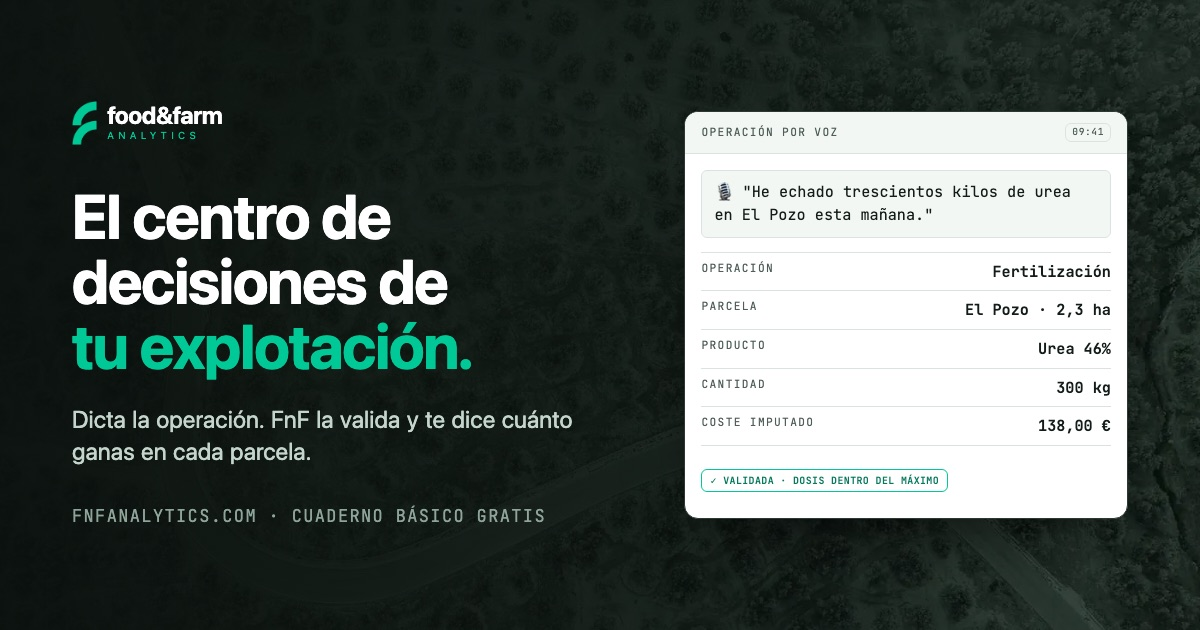
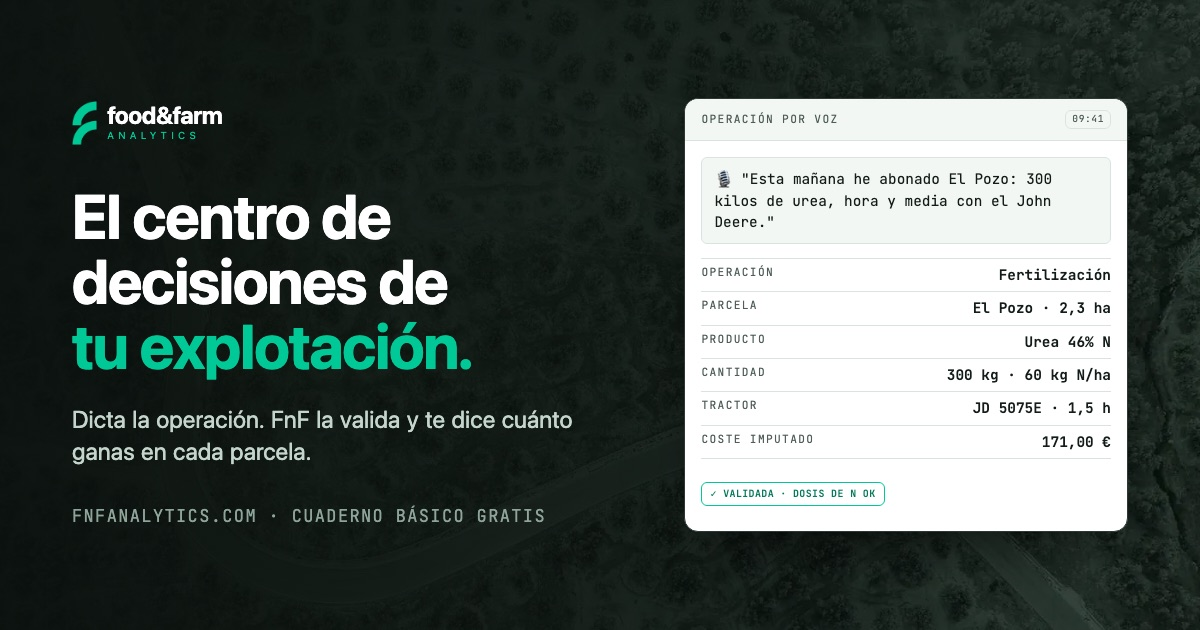
feat(demo): campos del parte real y tractor con matrícula
- La demo del hero enseña lo que pide la ficha R-005: producto con nº de
  registro, dosis y caldo, equipo, tractor y matrícula, horario y viento;
  el sello incluye P.S. y carné ROPO
- El coste imputado suma las horas de tractor (22 €/h de ejemplo)
- Misma operación con tractor en la tarjeta de El sistema, en "Cómo
  funciona" y en la imagen para compartir

Changed region(s): [[0.555, 0.3921, 0.9558, 0.8444], [0.5858, 0.2413, 0.925, 0.3619], [0.555, 0.1508, 0.9558, 0.2111]]

diff --git a/index.html b/index.html
@@ -79,13 +79,7 @@
       <div class="dbar"><span class="label">operación por voz</span><span class="dtag">DEMO · EJEMPLO SIMULADO</span></div>
       <div class="dbody">
         <div class="said" aria-live="polite"><span class="ph">Pulsa el botón y escucha un ejemplo…</span></div>
-        <div class="op">
-          <div class="r"><span class="label">operación</span><span class="data">—</span></div>
-          <div class="r"><span class="label">parcela</span><span class="data">—</span></div>
-          <div class="r"><span class="label">producto</span><span class="data">—</span></div>
-          <div class="r"><span class="label">cantidad</span><span class="data">—</span></div>
-          <div class="r"><span class="label">coste imputado</span><span class="data">—</span></div>
-        </div>
+        <div class="op" id="demo-op"></div>
         <div class="dfoot">
           <button class="mic" type="button" id="mic"><svg viewBox="0 0 24 24" fill="none" stroke="currentColor" stroke-width="2" stroke-linecap="round" aria-hidden="true"><rect x="9" y="3" width="6" height="11" rx="3"/><path d="M5 11a7 7 0 0 0 14 0M12 18v3"/></svg><span>Escuchar ejemplo</span></button>
           <span class="ok" id="demo-ok">✓ VALIDADA</span>
@@ -137,10 +131,11 @@
             <div class="r"><span class="label">operación</span><span class="data">Fertilización</span></div>
             <div class="r"><span class="label">parcela</span><span class="data">El Pozo · 2,3 ha</span></div>
             <div class="r"><span class="label">producto</span><span class="data">Urea 46%</span></div>
-            <div class="r"><span class="label">dosis</span><span class="data">300 kg</span></div>
-            <div class="r"><span class="label">coste imputado</span><span class="data">138,00 €</span></div>
+            <div class="r"><span class="label">dosis</span><span class="data">300 kg · 60 kg N/ha</span></div>
+            <div class="r"><span class="label">tractor</span><span class="data">JD 5075E · 1,5 h</span></div>
+            <div class="r"><span class="label">coste imputado</span><span class="data">171,00 €</span></div>
           </div>
-          <span class="sello">✓ VALIDADA · DOSIS Y PLAZO DE SEGURIDAD OK</span>
+          <span class="sello">✓ VALIDADA · DOSIS DE N OK</span>
         </div>
         <div class="asiento-card">
           <span class="entrada">CONSULTA · <b>MARGEN POR PARCELA</b> · campaña 2026</span>
@@ -254,13 +249,13 @@
         <span class="label">01 · captura</span>
         <h3>Por el canal que ya usas</h3>
         <p>Un audio desde el móvil o por WhatsApp, una foto del albarán o una importación. El operario no aprende nada nuevo.</p>
-        <span class="ej">🎙 "he tratado La Vereda contra el repilo, una cuba de 800 litros de Curenox a 300 gramos"</span>
+        <span class="ej">🎙 "he tratado La Vereda contra el repilo con el atomizador y el John Deere, una cuba de 800 litros de Curenox a 300 gramos"</span>
       </div>
       <div class="step">
         <span class="label">02 · validación</span>
         <h3>El sistema estructura y verifica</h3>
-        <p>Producto, dosis, parcela y plazo de seguridad, verificados automáticamente. Nada queda registrado sin tu confirmación.</p>
-        <span class="ej">✓ oxicloruro de cobre 50% · 300 g/hL (máx. 330) · plazo seg. 14 d · validada</span>
+        <p>Producto, dosis, parcela, equipo y tractor, con su plazo de seguridad. Lo que falta en el parte, te lo pregunta. Nada queda registrado sin tu confirmación.</p>
+        <span class="ej">✓ Curenox 50 Blue (nº 12612) · 300 g/hL (máx. 330) · P.S. 14 d · tractor E-4821-BGK · validada</span>
       </div>
       <div class="step">
         <span class="label">03 · decisión</span>
@@ -452,28 +447,41 @@
 // frase → operación estructurada → validación con dos ejemplos que se alternan.
 (function(){
   var demo = document.getElementById('demo'); if(!demo) return;
+  // Campos de los partes reales (plantillas R-005 de tratamiento y de abonado):
+  // producto con nº de registro, dosis y caldo, equipo, tractor y matrícula, horario.
+  // Coste = producto + horas de tractor (22 €/h, valor de ejemplo).
   var ejemplos = [
-    { dicho: 'He echado trescientos kilos de urea en El Pozo esta mañana.',
-      campos: ['Fertilización', 'El Pozo · 2,3 ha', 'Urea 46%', '300 kg', '138,00 €'],
-      ok: "✓ VALIDADA · DOSIS OK" },
-    { dicho: 'He tratado La Vereda contra el repilo, una cuba de 800 litros de Curenox a 300 gramos.',
-      campos: ['Tratamiento · repilo', 'La Vereda · 0,8 ha', 'Curenox 50 Blue · nº 12612', '2,4 kg en 800 L', '36,84 €'],
-      ok: "✓ VALIDADA · PLAZO SEG. 14 D" }
+    { dicho: 'Esta mañana he abonado El Pozo: 300 kilos de urea con la abonadora, hora y media con el John Deere.',
+      campos: [['operación','Fertilización · abonado'], ['parcela','El Pozo · olivar · 2,3 ha'], ['producto','Urea 46% N'],
+               ['cantidad','300 kg · 60 kg N/ha'], ['equipo','Abonadora centrífuga'], ['tractor','JD 5075E · E-4821-BGK'],
+               ['horario','08:10–09:40 · 1,5 h'], ['coste imputado','171,00 €']],
+      ok: '✓ VALIDADA · DOSIS DE N OK' },
+    { dicho: 'He tratado La Vereda contra el repilo con el atomizador y el John Deere: una cuba de 800 litros de Curenox a 300 gramos, de ocho a diez y sin viento.',
+      campos: [['operación','Tratamiento foliar · repilo'], ['parcela','La Vereda · olivar · 0,8 ha'], ['producto','Curenox 50 Blue · nº 12612'],
+               ['dosis · caldo','300 g/hL · cuba de 800 L'], ['cantidad','2,4 kg'], ['equipo','Atomizador arrastrado'],
+               ['tractor','JD 5075E · E-4821-BGK'], ['horario','08:00–10:00 · sin viento'], ['coste imputado','80,84 €']],
+      ok: '✓ VALIDADA · P.S. 14 D · ROPO AL DÍA' }
   ];
-  var said = demo.querySelector('.said'), rows = demo.querySelectorAll('.op .r'),
-      datos = demo.querySelectorAll('.op .data'), ok = document.getElementById('demo-ok'),
+  var said = demo.querySelector('.said'), op = document.getElementById('demo-op'), ok = document.getElementById('demo-ok'),
       btn = document.getElementById('mic'), n = 0, quieto = matchMedia('(prefers-reduced-motion: reduce)').matches;
+  // Nueve filas fijas para que la tarjeta no cambie de alto entre ejemplos.
+  for (var k = 0; k < 9; k++) op.insertAdjacentHTML('beforeend', '<div class="r"><span class="label">&nbsp;</span><span class="data">—</span></div>');
+  var rows = op.querySelectorAll('.r');
   function espera(ms){ return new Promise(function(r){ setTimeout(r, quieto ? 0 : ms); }); }
   async function reproducir(){
     var e = ejemplos[n % ejemplos.length]; n++;
     btn.disabled = true; ok.classList.remove('on');
-    rows.forEach(function(r, i){ r.classList.remove('on'); datos[i].textContent = '—'; });
+    rows.forEach(function(r, i){
+      var c = e.campos[i];
+      r.classList.remove('on'); r.style.visibility = c ? '' : 'hidden';
+      r.firstChild.textContent = c ? c[0] : ''; r.lastChild.textContent = '—';
+    });
     said.innerHTML = '🎙 <span class="t"></span><span class="caret"></span>';
     var t = said.querySelector('.t');
-    for (var i = 1; i <= e.dicho.length; i++){ t.textContent = '"' + e.dicho.slice(0, i); await espera(28); }
+    for (var i = 1; i <= e.dicho.length; i++){ t.textContent = '"' + e.dicho.slice(0, i); await espera(22); }
     t.textContent = '"' + e.dicho + '"'; said.querySelector('.caret').remove();
     await espera(350);
-    for (var j = 0; j < rows.length; j++){ datos[j].textContent = e.campos[j]; rows[j].classList.add('on'); await espera(260); }
+    for (var j = 0; j < e.campos.length; j++){ rows[j].lastChild.textContent = e.campos[j][1]; rows[j].classList.add('on'); await espera(200); }
     ok.textContent = e.ok; ok.classList.add('on');
     btn.disabled = false; btn.querySelector('span').textContent = 'Otro ejemplo';
   }
